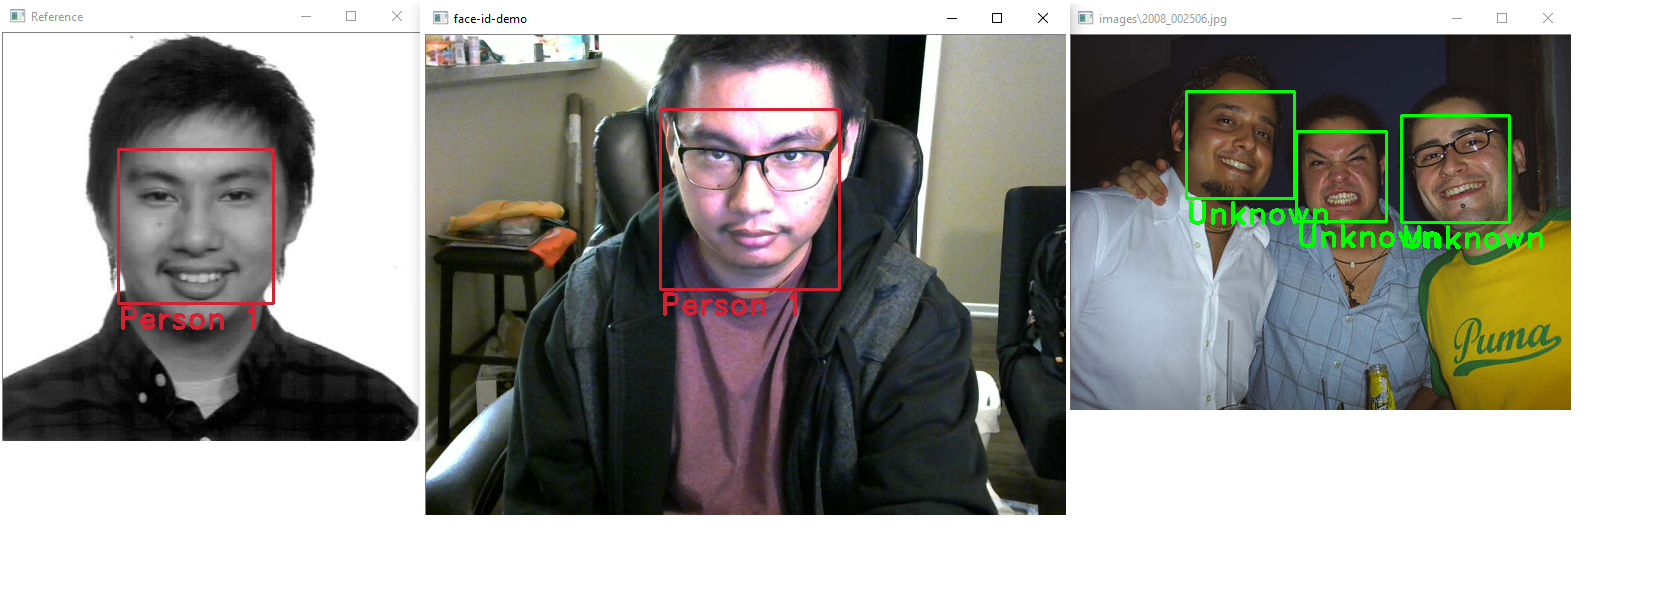
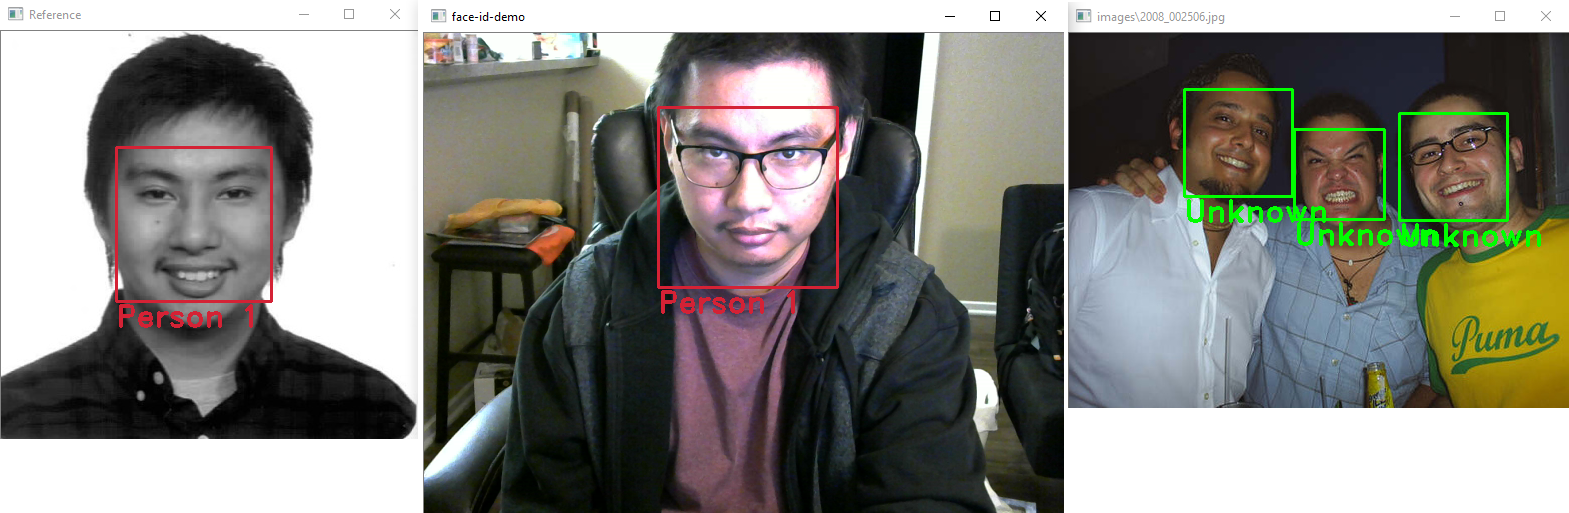
added more examples; updated readme

diff --git a/README.md b/README.md
@@ -56,6 +56,12 @@ Additonally, any more images you would like to process can be passed after the f
 
 ## Examples
 
-From left to right: first window shows the face that was calibrated (the reference), second window shows the feed from the webcam, and the third window is an image from disk.
+From left to right: first window shows the image that was used for calibration (the reference), second window shows the feed from the webcam, and the third window is an image from disk.
 
-![Alt Text](examples/ex_1.PNG)
+![Alt text](examples/ex_1.png)
+
+![Alt text](examples/ex_2.png)
+
+Here are some examples with a false positive
+
+![Alt text](examples/ex_3.png)
